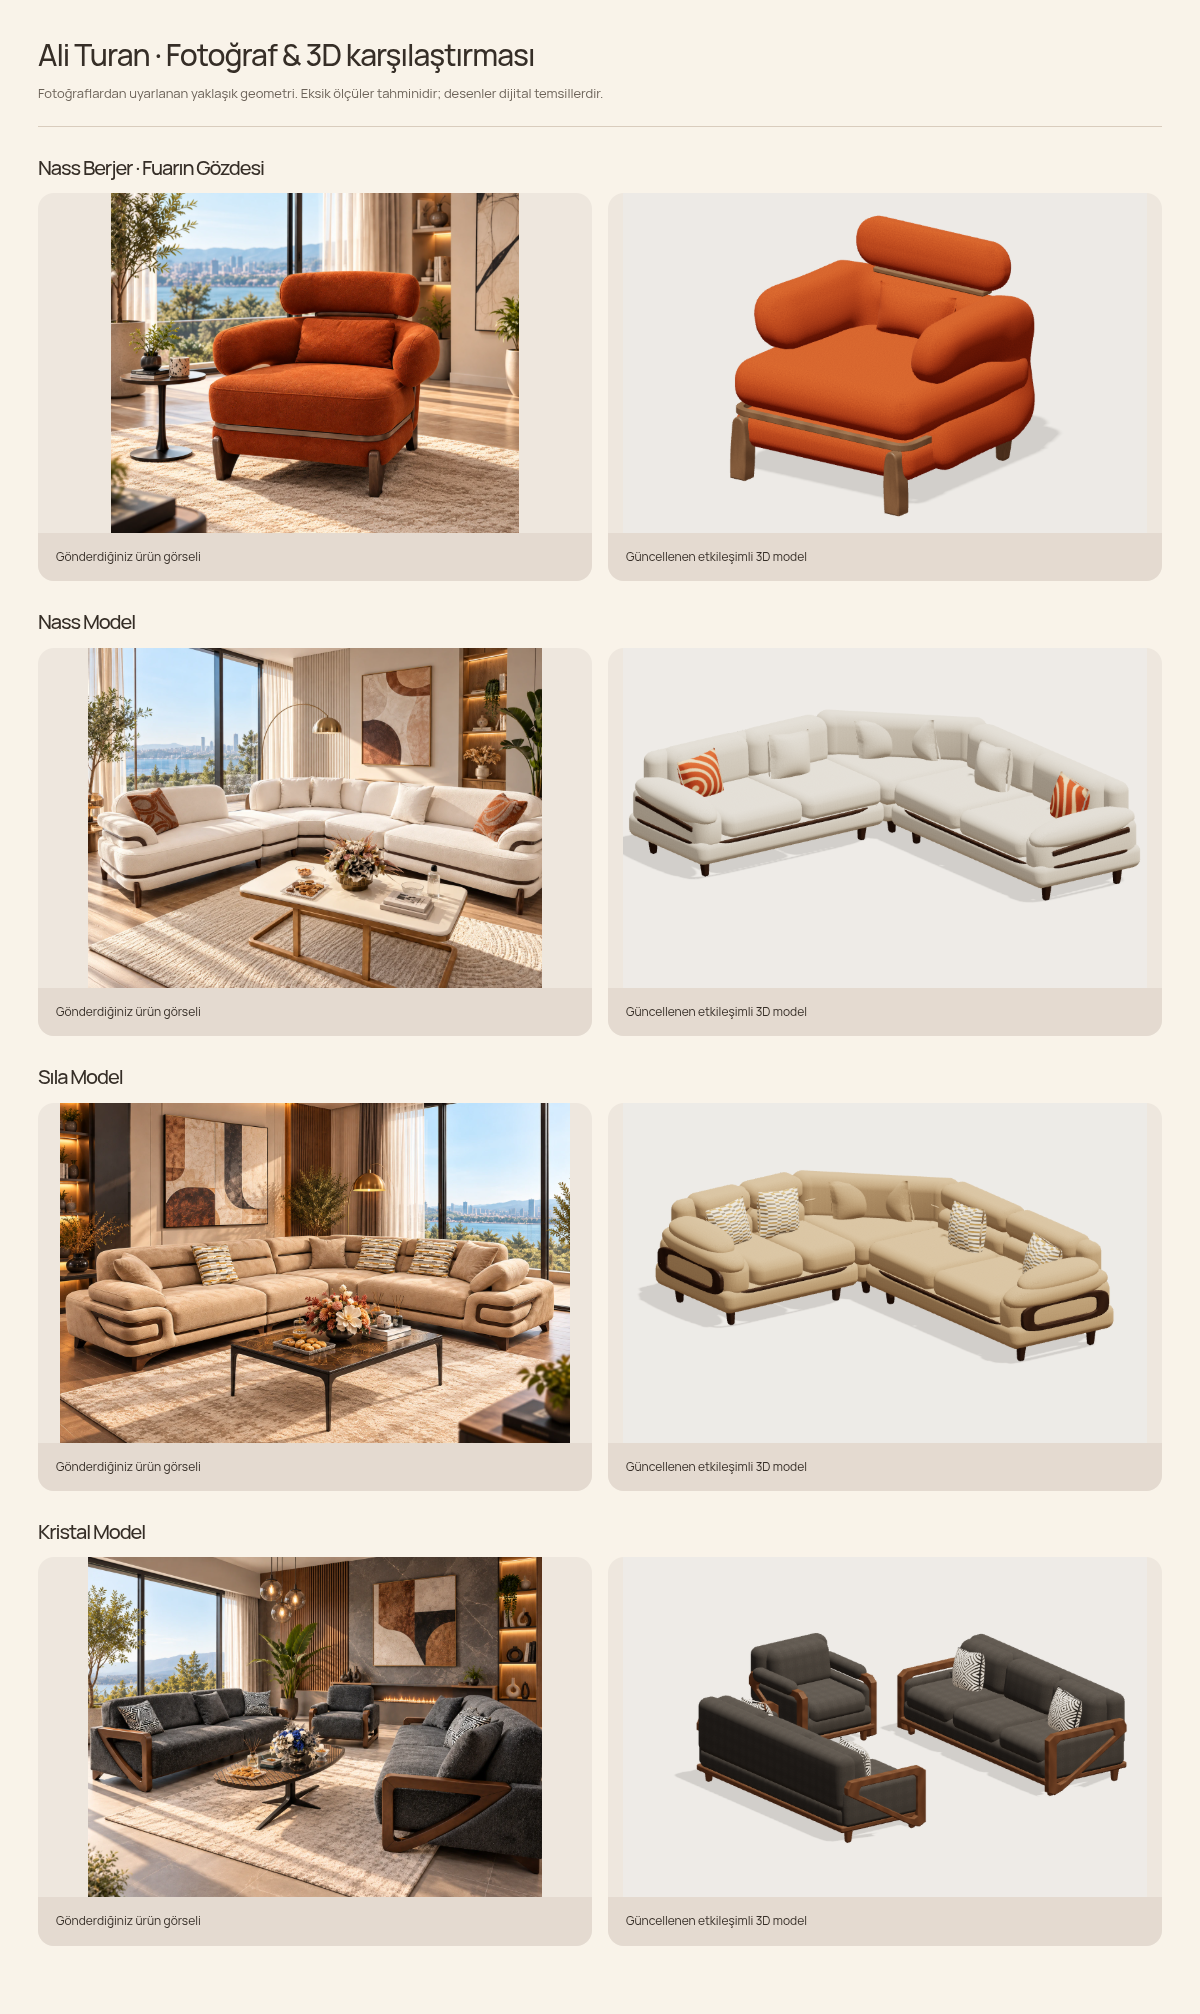
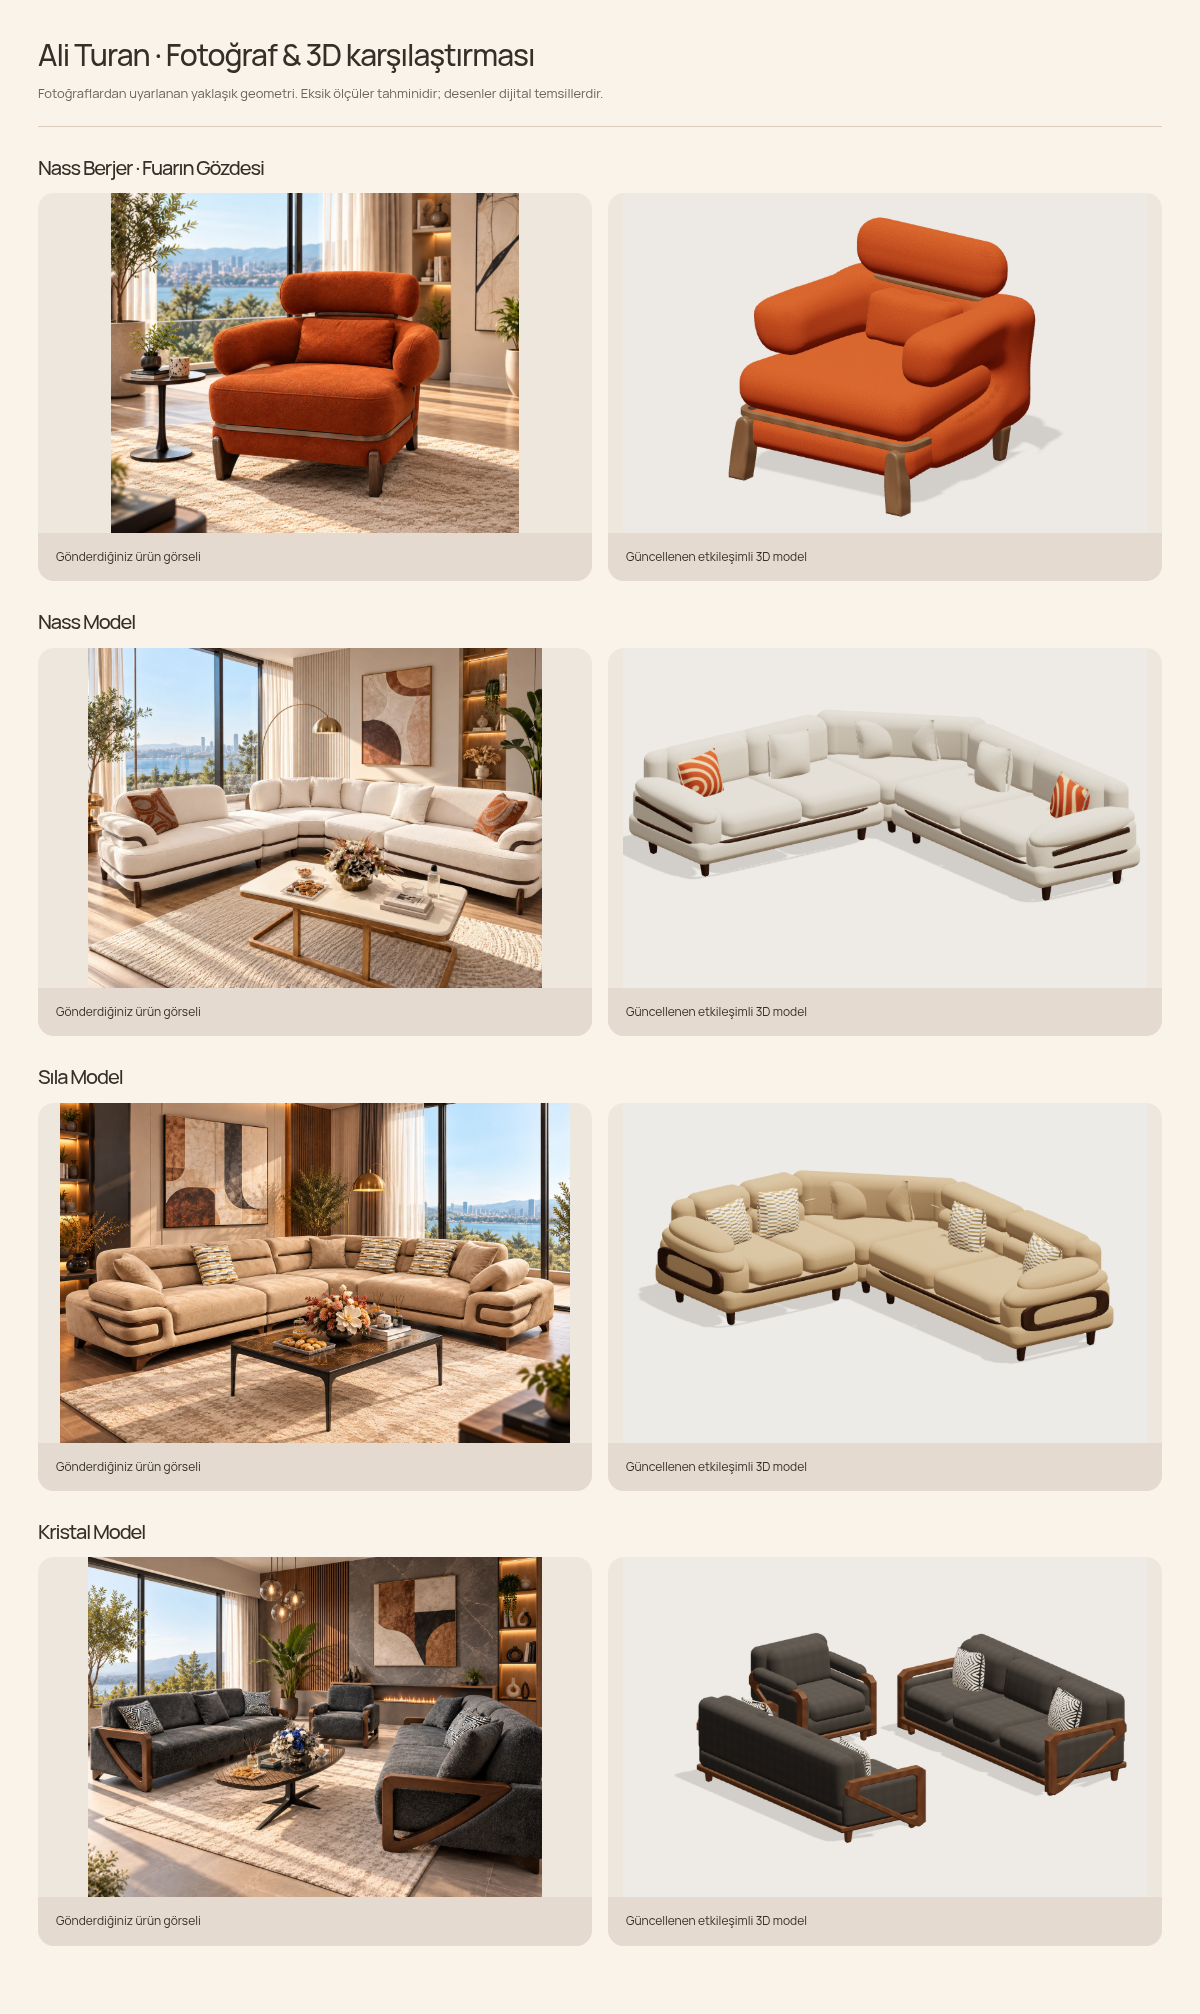
Refine Nass Berjer with GPT-6 Astra from four original references

Changed region(s): [[0.5858, 0.1231, 0.8633, 0.2463]]

diff --git a/src/three/nass-armchair.js b/src/three/nass-armchair.js
@@ -21,32 +21,104 @@ function blend(a, b, radius) {
   return b + (a - b) * t - radius * t * (1 - t);
 }
 
+// Side elevation traced as one padded C, rather than three overlapping
+// capsules. Its large lower return and gently scooped opening are visible
+// in both supplied side photographs (coordinates are depth, height).
+const sideOutline = new THREE.Shape();
+sideOutline.moveTo(-0.29, 0.805);
+sideOutline.bezierCurveTo(-0.12, 0.807, 0.1, 0.82, 0.215, 0.81);
+sideOutline.bezierCurveTo(0.295, 0.805, 0.325, 0.77, 0.325, 0.705);
+sideOutline.bezierCurveTo(0.327, 0.63, 0.318, 0.566, 0.268, 0.552);
+sideOutline.bezierCurveTo(0.17, 0.54, -0.07, 0.55, -0.15, 0.534);
+sideOutline.bezierCurveTo(-0.245, 0.517, -0.25, 0.427, -0.172, 0.395);
+sideOutline.bezierCurveTo(-0.1, 0.37, 0.08, 0.383, 0.19, 0.378);
+sideOutline.bezierCurveTo(0.285, 0.376, 0.313, 0.335, 0.31, 0.266);
+sideOutline.bezierCurveTo(0.305, 0.19, 0.28, 0.145, 0.215, 0.136);
+sideOutline.bezierCurveTo(0.06, 0.12, -0.18, 0.125, -0.275, 0.148);
+sideOutline.bezierCurveTo(-0.412, 0.178, -0.457, 0.27, -0.466, 0.405);
+sideOutline.bezierCurveTo(-0.477, 0.55, -0.48, 0.665, -0.443, 0.738);
+sideOutline.bezierCurveTo(-0.418, 0.792, -0.365, 0.807, -0.29, 0.805);
+const outline = sideOutline.getPoints(8);
+function profileDistance(z, y) {
+  let inside = false,
+    distanceSq = Infinity;
+  for (let i = 0, j = outline.length - 1; i < outline.length; j = i++) {
+    const a = outline[j],
+      b = outline[i];
+    const dz = b.x - a.x,
+      dy = b.y - a.y;
+    const lengthSq = dz * dz + dy * dy;
+    const t = lengthSq
+      ? THREE.MathUtils.clamp(
+          ((z - a.x) * dz + (y - a.y) * dy) / lengthSq,
+          0,
+          1,
+        )
+      : 0;
+    distanceSq = Math.min(
+      distanceSq,
+      (z - a.x - t * dz) ** 2 + (y - a.y - t * dy) ** 2,
+    );
+    if (
+      a.y > y !== b.y > y &&
+      z < ((b.x - a.x) * (y - a.y)) / (b.y - a.y) + a.x
+    )
+      inside = !inside;
+  }
+  return Math.sqrt(distanceSq) * (inside ? -1 : 1);
+}
 function shellDistance(x, y, z) {
-  const ny = THREE.MathUtils.clamp((y - 0.46) / 0.3, -1, 1);
-  const flare = THREE.MathUtils.smoothstep(z, -0.1, 0.32) * 0.025;
-  const lateral =
-    (Math.abs(x) - 0.36 - 0.052 * Math.abs(ny) ** 1.15 - flare) * 1.8;
-  // Compress the transverse radius independently: the side silhouette has
-  // much larger upholstered corner radii than the arm's physical thickness.
-  const upper =
-    roundedBox(lateral, y - 0.675, z + 0.025, 0.185, 0.14, 0.345, 0.135) / 1.4;
-  const rear =
-    roundedBox(lateral, y - 0.459, z + 0.315, 0.185, 0.285, 0.155, 0.15) / 1.4;
-  const lower =
-    roundedBox(lateral, y - 0.258, z + 0.015, 0.185, 0.12, 0.33, 0.115) / 1.4;
-  const side = blend(blend(upper, rear, 0.06), lower, 0.06);
-  const backWidth = 0.405 + 0.06 * ny * ny;
-  const backZ = -0.353 + 0.012 * ny;
-  const back = roundedBox(
+  const ny = THREE.MathUtils.clamp((y - 0.465) / 0.31, -1, 1);
+  const front = THREE.MathUtils.smoothstep(z, -0.25, 0.28);
+  const top = THREE.MathUtils.smoothstep(y, 0.43, 0.69);
+  // A broad oval arm nose flares sideways, while the lower return and rear
+  // share a softer waist. The round extrusion retains a broad padded face.
+  const center =
+    0.371 +
+    0.022 * ny * ny +
+    0.023 * front * top -
+    0.02 * (1 - front) * (1 - ny * ny);
+  const halfWidth = 0.106 + 0.026 * top * front;
+  const radius = 0.09;
+  const qx = Math.abs(Math.abs(x) - center) - halfWidth + radius;
+  const qp = profileDistance(z, y) + radius;
+  const side =
+    Math.hypot(Math.max(qx, 0), Math.max(qp, 0)) +
+    Math.min(Math.max(qx, qp), 0) -
+    radius;
+  // The rear is crowned in depth and narrows gently at the waist. Compress
+  // its depth separately to retain large radii at the rear's lower corners.
+  const backWidth = 0.47 + 0.04 * ny * ny;
+  const backZ = -0.365 - 0.024 * (1 - ny * ny) + 0.025 * (x / 0.48) ** 2;
+  const backRadius = 0.175 - 0.07 * THREE.MathUtils.smoothstep(y, 0.43, 0.7);
+  const back =
+    roundedBox(
+      x,
+      y - 0.445,
+      (z - backZ) * 1.6,
+      backWidth,
+      0.35,
+      0.18,
+      backRadius,
+    ) / 1.3;
+  const rearCorner =
+    (1 - THREE.MathUtils.smoothstep(z, -0.29, -0.08)) *
+    (1 - THREE.MathUtils.smoothstep(y, 0.35, 0.55));
+  const cornerRadius =
+    0.22 + 0.09 * rearCorner - 0.12 * THREE.MathUtils.smoothstep(y, 0.43, 0.68);
+  // The rear underside bows gently down at the centre; only the rear's
+  // lower corners receive the larger turn, leaving the front C nose intact.
+  const bottomCrown = 0.022 * (x / 0.5) ** 2 * rearCorner;
+  const envelope = roundedBox(
     x,
-    y - 0.458,
-    z - backZ,
-    backWidth,
-    0.297,
-    0.108,
-    0.087,
+    y - 0.455 - bottomCrown,
+    0,
+    0.515 + 0.03 * front,
+    0.36,
+    1,
+    cornerRadius,
   );
-  return blend(side, back, 0.065);
+  return -blend(-blend(side, back, 0.055), -envelope, 0.025);
 }
 
 let shellTemplate;
@@ -56,7 +128,7 @@ function shellGeometry() {
   // the same scalar field and interpolated at the edge crossings; normals
   // stay smooth across tetrahedra and the resulting surface is closed.
   const cells = [52, 38, 46];
-  const minimum = [-0.59, 0.09, -0.53];
+  const minimum = [-0.59, 0.06, -0.53];
   const maximum = [0.59, 0.865, 0.385];
   const counts = cells.map((v) => v + 1);
   const step = cells.map((v, i) => (maximum[i] - minimum[i]) / v);
@@ -184,8 +256,29 @@ function shellGeometry() {
   return shellTemplate.clone();
 }
 
+function smoothNormals(geometry) {
+  const lp = geometry.attributes.position,
+    ln = geometry.attributes.normal;
+  geometry.computeVertexNormals();
+  const normalGroups = new Map();
+  for (let i = 0; i < lp.count; i++) {
+    const key = [lp.getX(i), lp.getY(i), lp.getZ(i)]
+      .map((v) => Math.round(v * 1e5))
+      .join(",");
+    if (!normalGroups.has(key))
+      normalGroups.set(key, { n: new THREE.Vector3(), ids: [] });
+    const group = normalGroups.get(key);
+    group.n.add(new THREE.Vector3(ln.getX(i), ln.getY(i), ln.getZ(i)));
+    group.ids.push(i);
+  }
+  for (const { n, ids } of normalGroups.values()) {
+    n.normalize();
+    for (const i of ids) ln.setXYZ(i, n.x, n.y, n.z);
+  }
+}
+
 export function nassArmchair(b, product) {
-  const { root, mats, attach, soft, box, loop, pillow, leg } = b;
+  const { root, mats, attach, soft, box, loop, leg } = b;
   const w = product.dimensions.width / 100;
   const d = product.dimensions.depth / 100;
   const h = product.dimensions.height / 100;
@@ -196,7 +289,28 @@ export function nassArmchair(b, product) {
     [0, 0, 0],
     mats.fabric,
   );
-  soft("Alt Gövde", [w * 0.95, h * 0.165, d * 0.89], [0, h * 0.225, d * 0.045]);
+  const base = soft(
+    "Alt Gövde",
+    [w * 0.95, h * 0.165, d * 0.89],
+    [0, h * 0.225, d * 0.045],
+  );
+  // The front apron is full width, but its rear is tucked inside the C shell.
+  // Without this taper it breaks through the shell's rounded lower corners.
+  const tuckRear = (mesh, rearScale) => {
+    const p = mesh.geometry.attributes.position;
+    for (let i = 0; i < p.count; i++) {
+      const front = THREE.MathUtils.smoothstep(
+        p.getZ(i) / d + 0.045,
+        -0.05,
+        0.37,
+      );
+      p.setX(i, p.getX(i) * THREE.MathUtils.lerp(rearScale, 1, front));
+    }
+    smoothNormals(mesh.geometry);
+    mesh.geometry.computeBoundingBox();
+    mesh.geometry.computeBoundingSphere();
+  };
+  tuckRear(base, 0.75);
   // The side shell hides the belt. Return only around the two front corners,
   // so no walnut strip cuts through the padded lower C-shaped side lobes.
   const trim = new THREE.Shape();
@@ -224,7 +338,7 @@ export function nassArmchair(b, product) {
   trimGeometry.rotateX(Math.PI / 2);
   trimGeometry.scale(w, h, d);
   attach("Ahşap Ön Kuşak", trimGeometry, [0, h * 0.325, 0], mats.wood);
-  soft(
+  const seat = soft(
     "Oturum Minderi",
     [w * 0.975, h * 0.225, d * 0.91],
     [0, h * 0.437, d * 0.045],
@@ -232,6 +346,7 @@ export function nassArmchair(b, product) {
     root,
     0.7,
   );
+  tuckRear(seat, 0.78);
   const seam = loop(
     "Oturum Dikişi",
     w * 0.94,
@@ -242,6 +357,7 @@ export function nassArmchair(b, product) {
     0.002,
   );
   seam.position.z = d * 0.045;
+  tuckRear(seam, 0.78);
 
   // A visible walnut bridge under the separate thin headrest, with short
   // dark pivots. The old long exposed back rods are absent in these photos.
@@ -264,12 +380,12 @@ export function nassArmchair(b, product) {
     );
   const headGeometry = new RoundedBoxGeometry(
     w * 0.79,
-    h * 0.225,
+    h * 0.267,
     d * 0.25,
     8,
-    h * 0.105,
+    h * 0.12,
   );
-  headGeometry.scale(1, 1, 0.55);
+  headGeometry.scale(1, 1, 0.65);
   const headUV = headGeometry.attributes.uv;
   const headPosition = headGeometry.attributes.position;
   for (let i = 0; i < headPosition.count; i++) {
@@ -284,16 +400,54 @@ export function nassArmchair(b, product) {
   const head = attach(
     "Sırt Başlığı",
     headGeometry,
-    [0, h * 0.916, -d * 0.325],
+    [0, h * 0.937, -d * 0.325],
     mats.fabric,
   );
   head.rotation.x = -0.055;
-  const lumbar = pillow("Bel Minderi", w * 0.405, h * 0.229, [
-    0,
-    h * 0.66,
-    -d * 0.205,
-  ]);
-  lumbar.scale.z = 0.7;
+  // This chair's loose lumbar cushion has filled, nearly straight edges.
+  // Keep this geometry local: the shared pillow intentionally pinches other
+  // products' decorative cushions and must not alter them with this revision.
+  const lumbarSize = new THREE.Vector3(w * 0.445, h * 0.24, d * 0.16);
+  // A uniformly subdivided panel retains vertices across the stuffed face;
+  // RoundedBoxGeometry concentrates its vertices at the corners instead.
+  const lumbarGeometry = new THREE.BoxGeometry(...lumbarSize, 28, 18, 10);
+  const lumbarInner = lumbarSize.clone().multiplyScalar(0.5).subScalar(0.038);
+  const lp = lumbarGeometry.attributes.position;
+  const ln = lumbarGeometry.attributes.normal;
+  const lu = lumbarGeometry.attributes.uv;
+  for (let i = 0; i < lp.count; i++) {
+    const original = new THREE.Vector3(lp.getX(i), lp.getY(i), lp.getZ(i));
+    const core = original
+      .clone()
+      .clamp(lumbarInner.clone().negate(), lumbarInner);
+    const rounded = original
+      .sub(core)
+      .normalize()
+      .multiplyScalar(0.038)
+      .add(core);
+    let { x, y, z } = rounded;
+    const nx = x / (w * 0.22),
+      ny = y / (h * 0.12);
+    const fill = Math.max(0, (1 - nx * nx) * (1 - ny * ny));
+    const fold = Math.sin(ny * 21 + nx * 4) * 0.0025 * Math.abs(nx) ** 8;
+    z += Math.sign(z) * (0.024 * fill + fold);
+    y += 0.004 * Math.sin(nx * 8 + 0.7) * Math.abs(ny) ** 6;
+    x *= 1 - 0.025 * ny;
+    lp.setXYZ(i, x, y, z);
+    if (Math.abs(ln.getX(i)) > 0.65) lu.setXY(i, z * 1.3, y * 1.3);
+    else if (Math.abs(ln.getY(i)) > 0.65) lu.setXY(i, x * 1.3, z * 1.3);
+    else lu.setXY(i, x * 1.3, y * 1.3);
+  }
+  // Box panels duplicate UV vertices; average their coincident normals
+  // after stuffing deformation to keep the cushion edges smooth.
+  smoothNormals(lumbarGeometry);
+  const lumbar = attach(
+    "Bel Minderi",
+    lumbarGeometry,
+    [0, h * 0.655, -d * 0.2],
+    mats.fabric,
+  );
+  lumbar.rotation.x = -0.13;
 
   // Front legs rise over the base upholstery; their rounded shoulders and
   // wider, splayed feet are visible in the straight-on reference photo.
@@ -307,12 +461,20 @@ export function nassArmchair(b, product) {
     const geometry = new THREE.ExtrudeGeometry(shape, {
       depth: 0.06,
       bevelEnabled: true,
-      bevelSize: 0.008,
-      bevelThickness: 0.008,
-      bevelSegments: 3,
+      bevelSize: 0.012,
+      bevelThickness: 0.012,
+      bevelSegments: 5,
       curveSegments: 16,
     });
-    geometry.translate(0, 0.008, -0.03);
+    const legPositions = geometry.attributes.position;
+    for (let i = 0; i < legPositions.count; i++) {
+      const splay =
+        1 - THREE.MathUtils.clamp(legPositions.getY(i) / 0.29, 0, 1);
+      legPositions.setX(i, legPositions.getX(i) + 0.018 * splay);
+      legPositions.setZ(i, legPositions.getZ(i) + 0.018 * splay);
+    }
+    geometry.computeVertexNormals();
+    geometry.translate(0, 0.012, -0.03);
     geometry.scale(w, h, d);
     const frontLeg = attach(
       "Ön Ahşap Ayak",

diff --git a/VALIDATION.md b/VALIDATION.md
@@ -37,6 +37,12 @@ Kullanıcının eklediği dört açıya göre yalnızca Nass Berjer’in geometr
 
 Yeni gövde kapalı bir alandan üretilen, köşe normalleri ortak ve önbelleğe alınan yüzeydir; her örnek bağımsız geometri kopyası kullanır. Gövde 32.034 köşe ve 63.936 üçgen, tam berjer 77.604 üçgendir. Yeni test yan oyukların açık, üst/alt yan dolguların ve arka sırtın dolu olduğunu ışın kesişimleriyle doğrular; yüzey normalleri de sonlu ve birim uzunluktadır. 11 birim testi, 15 üretim Chromium senaryosu ve 11 sayfalık derleme geçti. Sürükleme, mobil touch, renk değiştirme ve parçalanma animasyonu kontrol edildi. Gerçek geometrinin dört açılı incelemesi `docs/nass-berjer-views.png`, güncel genel karşılaştırma `docs/3d-models.png` dosyasındadır. Hosting hesabına yükleme yapılmadı.
 
+### GPT-6 Astra ile dört orijinal JPEG üzerinden yeniden çalışma
+
+`WhatsApp Unknown 2026-10-15 at 13.48.21.zip` içindeki dört JPEG, ayrı GPT-6 Astra oturumunda doğrudan incelendi. Yan C profili fotoğraflardan eğrisel bir konturla yeniden kuruldu; ön kol uçları genişletilip dışa açıldı. Başlık yüksekliği artırıldı, bel yastığı daha dolu bir yüzeyle modellendi, ön ayaklar yumuşak omuz ve hafif dışa/öne eğim kazandı. Oturum ve alt gövdenin arkası yan kabuğun içinde kalacak şekilde daraltıldı; arka alt köşeler geniş yarıçapla ve alt kenar hafif minder kavisiyle yeniden şekillendirildi. Aynı kamera ve ışıklarla alınan ön/yan/arka/çapraz renderlar root tarafından incelenerek iki düzeltme turu yapıldı.
+
+Son Nass modeli 83.220 üçgendir; kabuk 33.401 köşe ve 66.656 üçgen kullanır. Ölçek 95 × 95 × 90 cm (X × Z × Y), ölçüler hâlâ tahminidir. Bağımsız iki örneğin kabuk geometrisi ve position buffer'ı ayrı kalır. Son geometriyle 11 Node testi ve üretim derlemesi üzerinde 15 Chromium senaryosu geçti. Nass ayrıca 1440 ve 390 px genişliklerde oda yerleşimi, klavyeyle taşıma ve gerçek canvas'ın birleşik/tam ayrılmış renderlarıyla kontrol edildi; boş canvas veya JavaScript hatası bulunmadı. `docs/nass-berjer-views.png` ve genel fotoğraf/3D karşılaştırması güncellendi. Ürün galerisine yeni fotoğraf eklenmedi; hosting hesabına yükleme yapılmadı.
+
 ## Model adları ve bildirilen ölçüler — 15 Ekim 2026
 
 Köşeler Nass Model (X 280 × Z 300 cm) ve Sıla Model (X 230 × Z 300 cm), takım Kristal Model olarak güncellendi. Kristal'in iki kanepesi 235 cm, berjeri 90 cm genişliğindedir. Bu ürünlerin yüksekliği 85 cm, Kristal kanepe derinliği 95 cm ve berjer derinliği 90 cm tahminidir. Adı verilen ürünler artık geçici model adı olarak etiketlenmez; ürün sayfaları ve statik metaveri tahmini kalan ölçüleri açıklar. Ürün kimlikleri ve mevcut URL'ler korunur. Takımın yalnızca önizlemede kullanılan yerleşim sınır kutusu, yeni parça ölçülerine göre 325 × 317,5 cm olarak güncellendi.

diff --git a/README.md b/README.md
@@ -101,6 +101,8 @@ Geliştirme sunucusu açıkken `npm run render:models`, gerçek etkileşimli geo
 
 Nass Berjer’in yeni ön/yan/arka referanslarına göre hazırlanan gövdesi `src/three/nass-armchair.js` içindedir. Tek, kapalı döşemeli yüzeyde C biçimindeki yan açıklıklar ve arka sırt birlikte modellenir; üst ve alt yan parçalar sırta yumuşak dönüşlerle bağlanır. Ayrı ince başlık, kısa ahşap başlık köprüsü, ön kuşak ve döşemenin önüne çıkan yuvarlak uçlu ayaklar kullanılır. Yüzeyin ortak köşeleri birleştirilir, şablon önbelleğe alınır ve her yerleşime bağımsız geometri kopyalanır. Geliştirme sunucusu açıkken `npm run render:nass`, gerçek modelin ön, yan, arka ve çapraz görünümlerini `docs/nass-berjer-views.png` dosyasına yazar. Geometri fotoğraflardan uyarlanmıştır; mevcut ölçüler tahminidir.
 
+Son Nass Berjer düzenlemesinde GPT-6 Astra, site sahibinin ZIP olarak sağladığı dört orijinal JPEG’i doğrudan incelemiştir. Kol uçları, başlık oranı, arka alt köşeler, bel yastığı ve ön ayaklar bu referanslara göre yeniden çalışılmıştır. Ortak render kameraları korunarak sürümler aynı açılardan karşılaştırılır.
+
 GLB dosyasını `public/assets/models/` içine koyun; ürünün `model3d` alanını `/assets/models/kose-modeli-01.glb` gibi ayarlayın. `null` değeri prosedürel örnek modeli seçer. Model yüklenemezse açıklamalı örnek model kullanılır.
 
 Modeller Y yukarı ekseniyle hazırlanmalıdır. Yerleşimde modelin sınır kutusu ürünün `width/depth/height` ölçülerine ölçeklenir ve zemine oturtulur. Gömülü dokulu GLB tercih edin. Aynı dizindeki dış dokulu GLTF de desteklenir. Malzeme renklerinin değişmesini istediğiniz mesh adlarında `fabric`, `upholstery` veya `kumas` kullanın.

diff --git a/ASSETS.md b/ASSETS.md
@@ -26,3 +26,5 @@ ZIP eşleştirmesi:
 3D model geometrileri `src/three/photo-furniture.js` içinde, kullanıcının dört fotoğrafındaki biçimlere göre programatik olarak oluşturulmuştur. Kumaş mikro dokusu, döşeme deseni, ahşap damarı ve dekoratif yastık desenleri sentetik, yerel DataTexture verileridir; dış varlık indirilmez ve birebir kumaş taraması iddia edilmez. `docs/3d-models.png` bu geometrilerin Three.js ile gerçek renderlarını ürün fotoğraflarıyla karşılaştırır.
 
 Nass Berjer’in gövdesi ayrıca kullanıcının paylaştığı dört ön/yan/arka fotoğrafa göre `src/three/nass-armchair.js` içinde yeniden oluşturulmuştur. `docs/nass-berjer-views.png` aynı etkileşimli geometrinin dört açıdan Three.js renderıdır. Yeni referans fotoğrafları bu işlemde ürün galerisine eklenmemiştir.
+
+GPT-6 Astra’nın son modelleme geçişinde kullandığı dört orijinal JPEG, `WhatsApp Unknown 2026-10-15 at 13.48.21.zip` dosyasından alınmıştır. Astra her fotoğrafı doğrudan incelemiştir; dosyalar yalnızca geometri referansı olarak kullanılmıştır.
